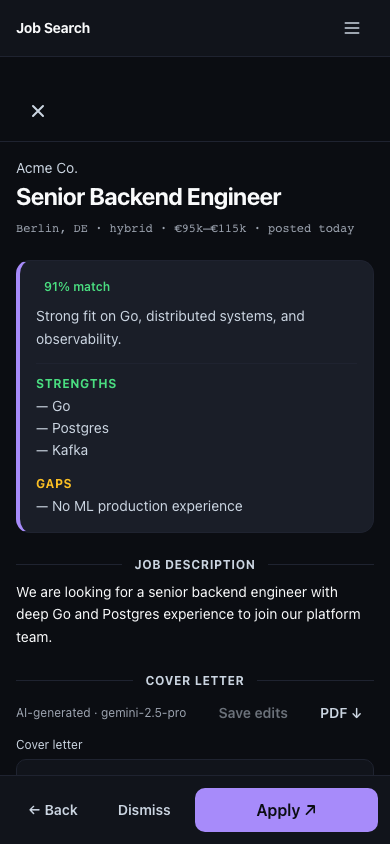
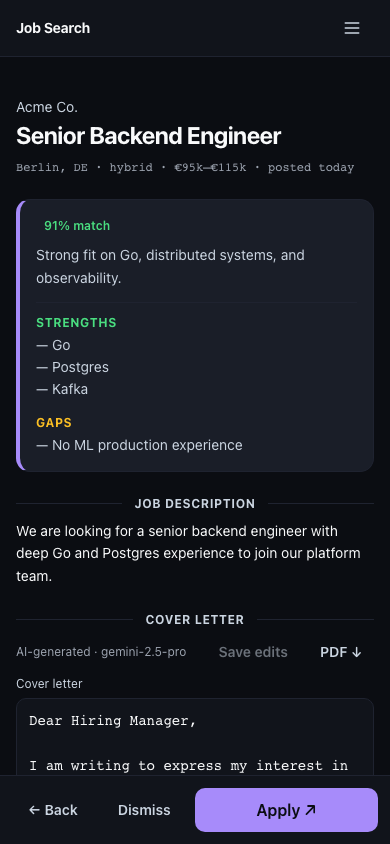
ui(matches): hide details-page sub-header on mobile
The detail page had a sticky sub-header containing only the X back button
on mobile (HeaderActions is desktop-only). With the new sticky bottom nav
covering Back/Dismiss/Apply on mobile, that X became redundant — it sat
right under the global hamburger and only added vertical chrome. Hide the
sub-header on mobile (hidden md:flex); desktop is unchanged.

diff --git a/frontend/src/pages/ApplicationReview.tsx b/frontend/src/pages/ApplicationReview.tsx
@@ -31,7 +31,9 @@ export default function ApplicationReview() {
 
   return (
     <article className="pb-24 md:pb-6">
-      <header className="sticky top-14 z-10 -mx-4 px-4 py-2 bg-bg/90 backdrop-blur border-b border-border flex items-center justify-between">
+      {/* Mobile users get Back/Dismiss/Apply in the sticky bottom nav, so the
+          details-page sub-header is desktop-only. */}
+      <header className="hidden md:flex sticky top-14 z-10 -mx-4 px-4 py-2 bg-bg/90 backdrop-blur border-b border-border items-center justify-between">
         <IconButton aria-label="Back" onClick={() => navigate(-1)}>
           <Close className="w-4 h-4" />
         </IconButton>